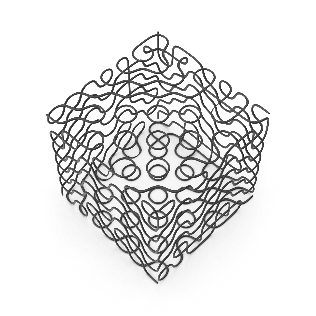
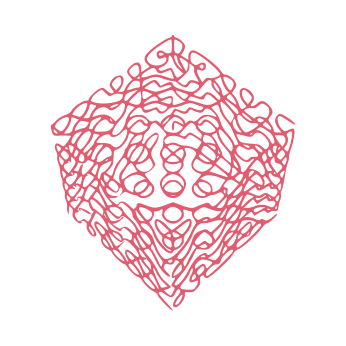
Cambiando los svg de las imagenes parallax.

Changed region(s): [[0.1424, 0.0854, 0.8544, 0.9114]]

diff --git a/src/components/Services.jsx b/src/components/Services.jsx
@@ -61,7 +61,7 @@ const Services = () => {
     return (
     <div id="idServicios" className=" w-full h-full">   
 
-        <ParallaxImage  secDiv={'absolute w-[100%] h-[350px] z-30'} 
+        <ParallaxImage  secDiv={'absolute w-[100%] h-[350px] z-30 opacity-75 md:opacity-100'} 
                 cnParallax={'h-[700px] overflow-y-hidden -translate-y-[20%] '} 
                 cnDiv={'flex justify-end overflow-x-hidden translate-x-[40%] ss:translate-x-[35%] xs:translate-x-[25%] sm:translate-x-[20%] md:translate-x-[15%] lg:translate-x-[10%] xl:translate-x-[8%]'} 
                 id={'idWireCube'} imgURL={'/assets/servicios/wirecube.png'}/>
